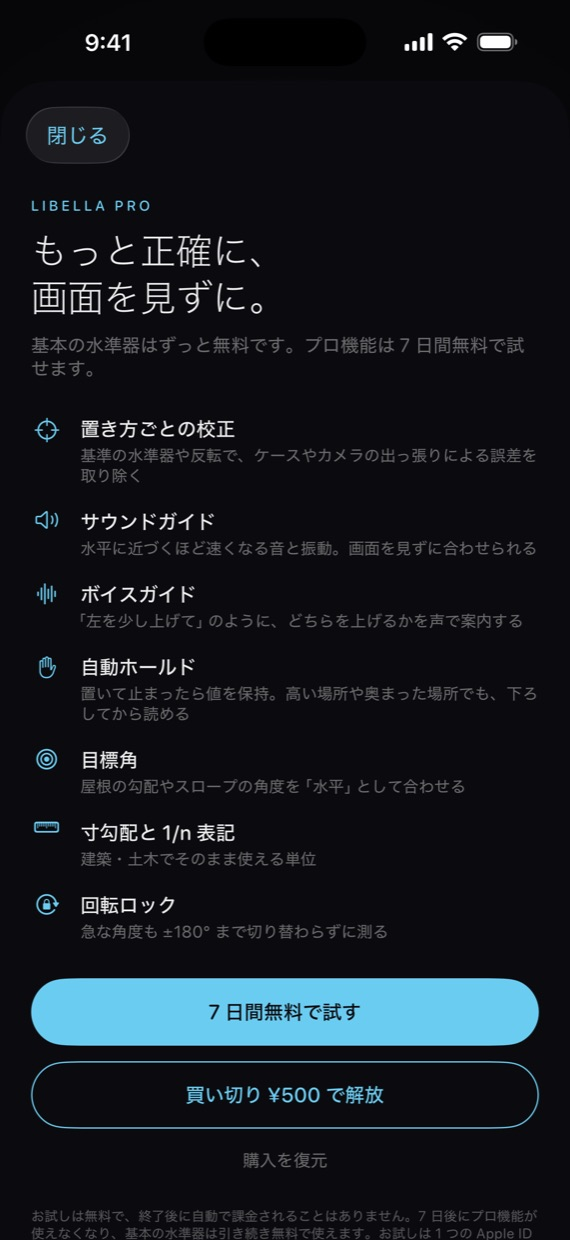
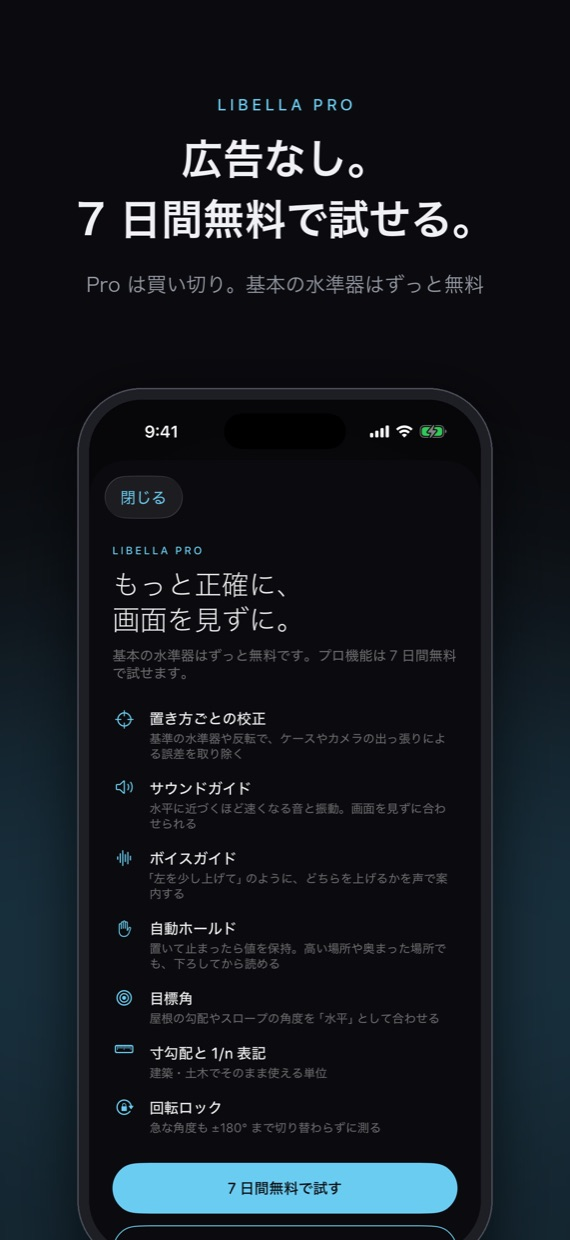
Libella：スクリーンショットを App Store 用のデザイン付きのもの（日本語・5枚）に差し替え、トップのカードも同じ画像に

diff --git a/libella/index.html b/libella/index.html
@@ -29,12 +29,12 @@
 
 <main>
 <div class="shots" role="list" aria-label="スクリーンショット">
-  <figure role="listitem"><img src="img/surface.jpg" alt="平置きの計測画面。円形の水準器と前後左右の傾き" width="570" height="1240" loading="lazy"><figcaption>平置き</figcaption></figure>
-  <figure role="listitem"><img src="img/edge-target.jpg" alt="立てて目標角を設定した気泡管の画面" width="570" height="1240" loading="lazy"><figcaption>目標角</figcaption></figure>
-  <figure role="listitem"><img src="img/big.jpg" alt="離れても読める大表示。水平に入ったところ" width="570" height="1240" loading="lazy"><figcaption>大表示</figcaption></figure>
-  <figure role="listitem"><img src="img/pro.jpg" alt="Libella Pro の紹介画面" width="570" height="1240" loading="lazy"><figcaption>Libella Pro</figcaption></figure>
+  <figure role="listitem"><img src="img/level.jpg" alt="気泡の動きと、0.01° の数値。置けば円形、立てれば気泡管に自動で切り替わる" width="570" height="1240" loading="lazy"></figure>
+  <figure role="listitem"><img src="img/voice.jpg" alt="見えなくても、声で合わせる。どちらを上げるかを声で案内し、離れても読める大表示" width="570" height="1240" loading="lazy"></figure>
+  <figure role="listitem"><img src="img/target.jpg" alt="ダイヤルを回して、目標の角度に。屋根の勾配やスロープを「水平」として合わせる" width="570" height="1240" loading="lazy"></figure>
+  <figure role="listitem"><img src="img/rotate.jpg" alt="どの向きでも、読みやすく。端末の向きに合わせて画面全体が回転する" width="570" height="1240" loading="lazy"></figure>
+  <figure role="listitem"><img src="img/pro.jpg" alt="広告なし。7 日間無料で試せる。Pro は買い切りで、基本の水準器はずっと無料" width="570" height="1240" loading="lazy"></figure>
 </div>
-<figure class="wide"><img src="img/landscape.jpg" alt="横向きの計測画面。画面全体が向きに合わせて回転する" width="1400" height="644" loading="lazy"><figcaption>向きに合わせて、画面全体が回転</figcaption></figure>
 
 <section lang="ja">
 <p class="lead">気泡のなめらかな動きと、<br>0.01° 単位の数値表示。</p>

diff --git a/libella/style.css b/libella/style.css
@@ -54,11 +54,8 @@ a.badge:hover{border-color:var(--accent); color:var(--accent)}
 .shots{display:flex; gap:14px; overflow-x:auto; scroll-snap-type:x mandatory;
   margin:0 -16px 12px; padding:6px 16px 18px; scrollbar-width:thin}
 .shots figure{margin:0; flex:none; width:min(46vw,220px); scroll-snap-align:start}
-.shots img{width:100%; height:auto; aspect-ratio:1320/2868; display:block; border-radius:18px; border:1px solid var(--line); background:#000}
+.shots img{width:100%; height:auto; aspect-ratio:1206/2622; display:block; border-radius:18px; border:1px solid var(--line); background:#000}
 .shots figcaption{font-size:12px; color:var(--ink2); text-align:center; margin-top:6px}
-.wide{margin:6px 0 0}
-.wide img{width:100%; height:auto; aspect-ratio:2868/1320; display:block; border-radius:18px; border:1px solid var(--line); background:#000}
-.wide figcaption{font-size:12px; color:var(--ink2); text-align:center; margin-top:6px}
 
 /* ── 本文 ── */
 .lead{font-size:17px; line-height:2.1; text-align:center; margin:30px 0 10px}

diff --git a/index.html b/index.html
@@ -304,8 +304,8 @@ br.sp{display:none}
       <article class="app reveal">
         <div class="stage" aria-hidden="true"
            style="--stage:radial-gradient(120% 90% at 50% 0%,#24485a 0%,#101c24 55%,#0b0b0e 100%)">
-          <img src="libella/img/surface.jpg" alt="" width="570" height="1240" loading="lazy">
-          <img src="libella/img/big.jpg" alt="" width="570" height="1240" loading="lazy">
+          <img src="libella/img/level.jpg" alt="" width="570" height="1240" loading="lazy">
+          <img src="libella/img/voice.jpg" alt="" width="570" height="1240" loading="lazy">
         </div>
         <div class="app-body">
           <div class="app-id">
